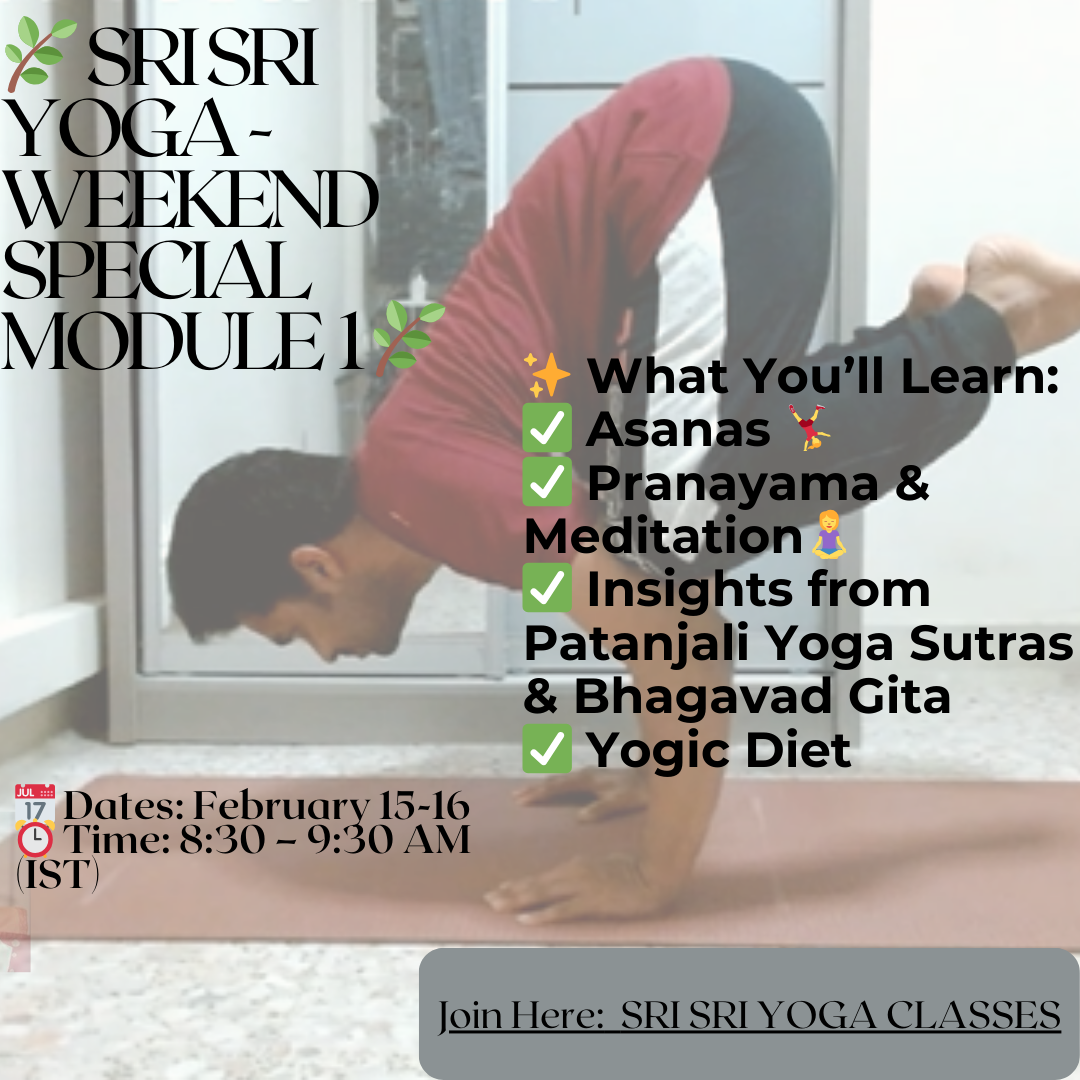
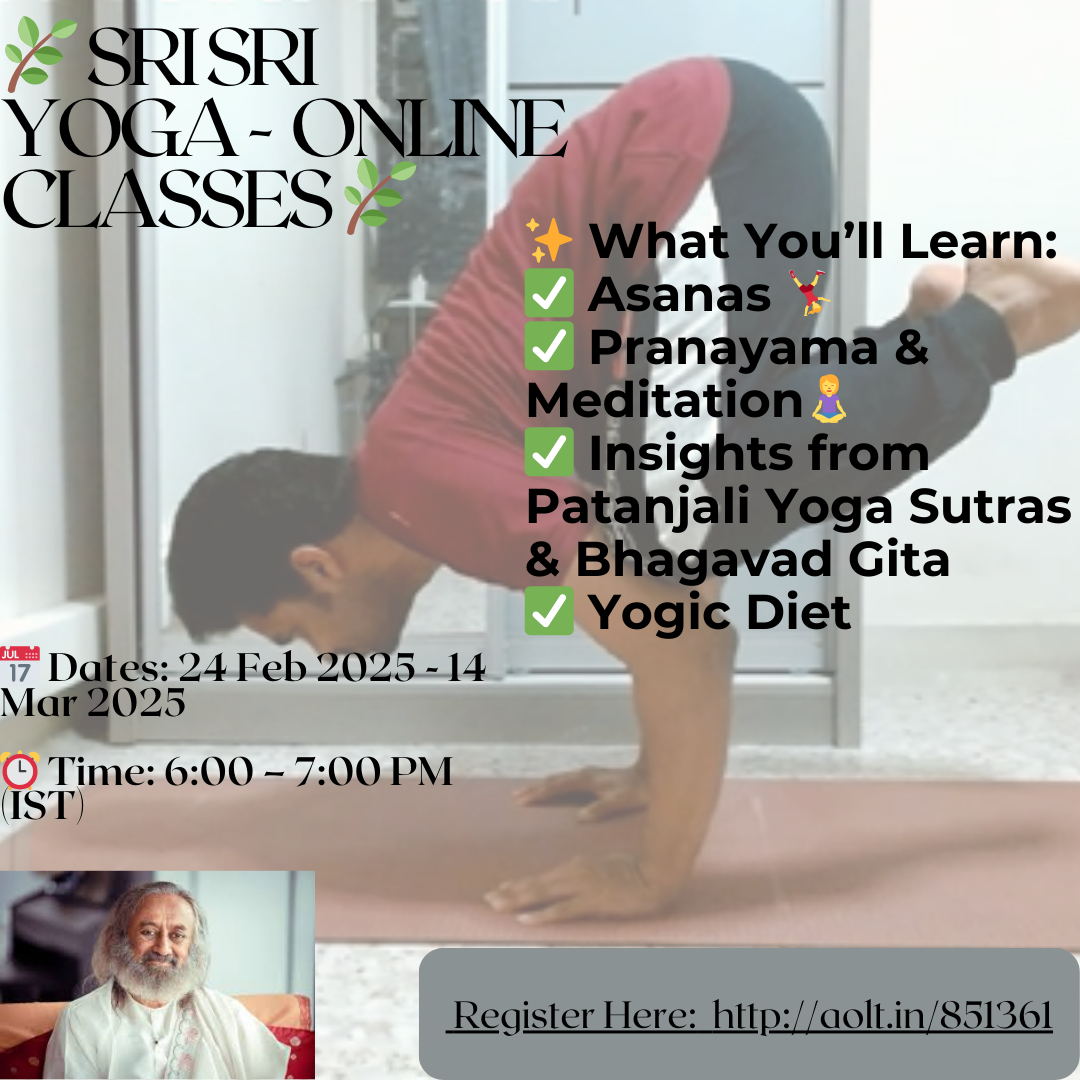
Commit 4

diff --git a/Yoga.html b/Yoga.html
@@ -1,6 +1,7 @@
 <link rel="stylesheet" href="yoga.css">
 <h1>Online Yoga sessions</h1>
-<h2>15th-16th Feb 2025</h2>
+<h2>24 Feb 2025 - 14 Mar 2025
+  6:00 PM - 7:00 PM</h2>
 
 <div id="header">
   <img src="Yoga.png" alt="Yoga classes flyer" />
@@ -13,8 +14,8 @@
   <li>A light meal an hour before</li>
 </ul>
 
-<h3 class="Meeting">This is where you need to go:</h3>
-<a class="link" href="https://meet.google.com/svc-fzds-zcm">Sri Sri Yoga Classes</a>
+<h3 class="Meeting">register here:</h3>
+<a class="link" href="https://www.artofliving.online/registration.php?event_id=851361&prefill=xEPlxH0B8eVYBdycvxdKhw.C5b-jsu_OqblPTYTcSvLkUmXt5R0tGcaqMQaf1yWR5Q&">Sri Sri Yoga Classes</a>
 
 <!-- Motivational Quote Section -->
 <div class="quote">
